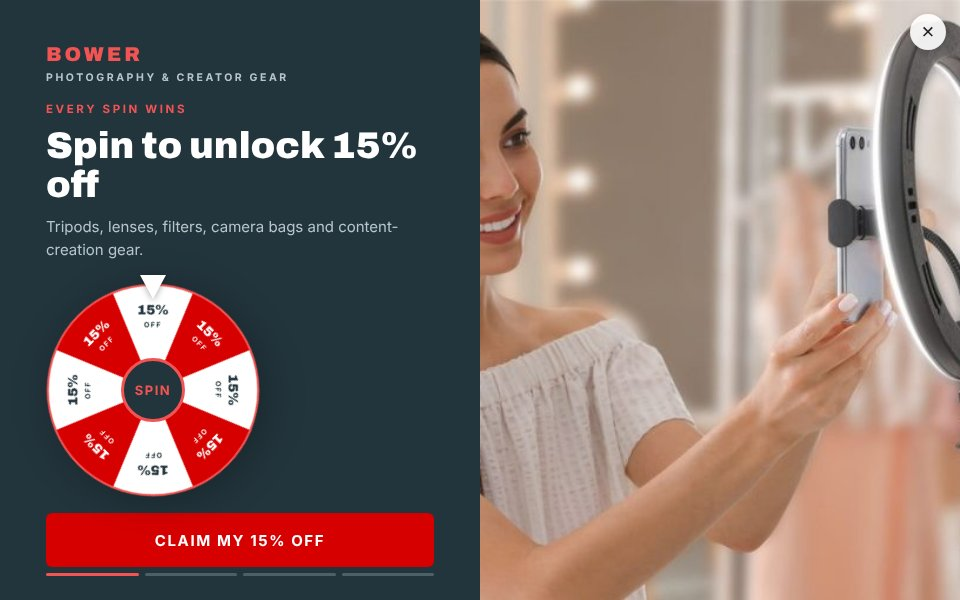
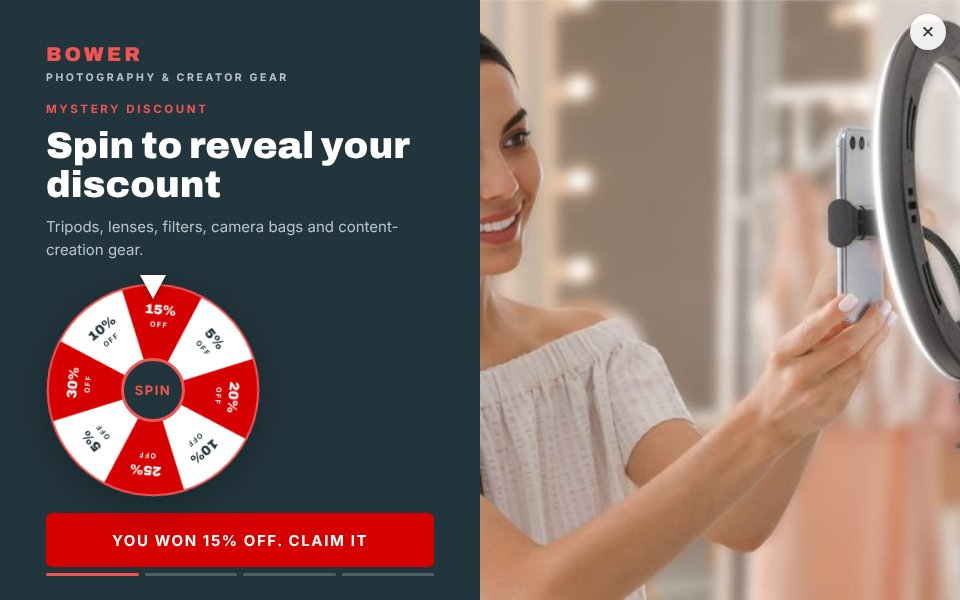
Spin to win: mixed-discount mystery wheel that lands on 15% (Today's Patio, Bower)
Claude-Session: https://claude.ai/code/session_01UBEML1uEhLsXmvUHUfTZGY

Changed region(s): [[0.0312, 0.48, 0.2812, 0.84], [0.0312, 0.15, 0.4375, 0.33], [0.125, 0.87, 0.375, 0.93]]

diff --git a/bowerusa/popup.html b/bowerusa/popup.html
@@ -130,19 +130,19 @@ body::before{content:"";position:fixed;inset:0;background:radial-gradient(ellips
     <div class="logo-sub">PHOTOGRAPHY &amp; CREATOR GEAR</div>
     <div class="steps">
       <div class="step active" data-step="1">
-<div class="eyebrow">Every spin wins</div>
-<h1 class="title">Spin to unlock 15% off</h1>
+<div class="eyebrow">Mystery discount</div>
+<h1 class="title">Spin to reveal your discount</h1>
 <p class="lede">Tripods, lenses, filters, camera bags and content-creation gear.</p>
 <div class="wheelwrap">
   <div class="pointer"></div>
   <svg id="wheel" class="wheel" viewBox="0 0 300 300" aria-hidden="true">
     <circle cx="150" cy="150" r="149" style="fill:var(--wheel-rim)"/>
-    <path d="M150 150 L94.1 15.1 A146 146 0 0 1 205.9 15.1 Z" style="fill:var(--cta-bg)"/><text transform="rotate(0.0 150 150)" x="150" y="44" text-anchor="middle" class="wtxt" style="fill:var(--cta-text)">15%</text><text transform="rotate(0.0 150 150)" x="150" y="62" text-anchor="middle" class="wtxt2" style="fill:var(--cta-text)">OFF</text><path d="M150 150 L205.9 15.1 A146 146 0 0 1 284.9 94.1 Z" style="fill:var(--wheel-alt)"/><text transform="rotate(45.0 150 150)" x="150" y="44" text-anchor="middle" class="wtxt" style="fill:var(--wheel-alt-text)">15%</text><text transform="rotate(45.0 150 150)" x="150" y="62" text-anchor="middle" class="wtxt2" style="fill:var(--wheel-alt-text)">OFF</text><path d="M150 150 L284.9 94.1 A146 146 0 0 1 284.9 205.9 Z" style="fill:var(--cta-bg)"/><text transform="rotate(90.0 150 150)" x="150" y="44" text-anchor="middle" class="wtxt" style="fill:var(--cta-text)">15%</text><text transform="rotate(90.0 150 150)" x="150" y="62" text-anchor="middle" class="wtxt2" style="fill:var(--cta-text)">OFF</text><path d="M150 150 L284.9 205.9 A146 146 0 0 1 205.9 284.9 Z" style="fill:var(--wheel-alt)"/><text transform="rotate(135.0 150 150)" x="150" y="44" text-anchor="middle" class="wtxt" style="fill:var(--wheel-alt-text)">15%</text><text transform="rotate(135.0 150 150)" x="150" y="62" text-anchor="middle" class="wtxt2" style="fill:var(--wheel-alt-text)">OFF</text><path d="M150 150 L205.9 284.9 A146 146 0 0 1 94.1 284.9 Z" style="fill:var(--cta-bg)"/><text transform="rotate(180.0 150 150)" x="150" y="44" text-anchor="middle" class="wtxt" style="fill:var(--cta-text)">15%</text><text transform="rotate(180.0 150 150)" x="150" y="62" text-anchor="middle" class="wtxt2" style="fill:var(--cta-text)">OFF</text><path d="M150 150 L94.1 284.9 A146 146 0 0 1 15.1 205.9 Z" style="fill:var(--wheel-alt)"/><text transform="rotate(225.0 150 150)" x="150" y="44" text-anchor="middle" class="wtxt" style="fill:var(--wheel-alt-text)">15%</text><text transform="rotate(225.0 150 150)" x="150" y="62" text-anchor="middle" class="wtxt2" style="fill:var(--wheel-alt-text)">OFF</text><path d="M150 150 L15.1 205.9 A146 146 0 0 1 15.1 94.1 Z" style="fill:var(--cta-bg)"/><text transform="rotate(270.0 150 150)" x="150" y="44" text-anchor="middle" class="wtxt" style="fill:var(--cta-text)">15%</text><text transform="rotate(270.0 150 150)" x="150" y="62" text-anchor="middle" class="wtxt2" style="fill:var(--cta-text)">OFF</text><path d="M150 150 L15.1 94.1 A146 146 0 0 1 94.1 15.1 Z" style="fill:var(--wheel-alt)"/><text transform="rotate(315.0 150 150)" x="150" y="44" text-anchor="middle" class="wtxt" style="fill:var(--wheel-alt-text)">15%</text><text transform="rotate(315.0 150 150)" x="150" y="62" text-anchor="middle" class="wtxt2" style="fill:var(--wheel-alt-text)">OFF</text>
+    <path d="M150 150 L94.1 15.1 A146 146 0 0 1 205.9 15.1 Z" style="fill:var(--cta-bg)"/><text transform="rotate(0.0 150 150)" x="150" y="44" text-anchor="middle" class="wtxt" style="fill:var(--cta-text)">15%</text><text transform="rotate(0.0 150 150)" x="150" y="62" text-anchor="middle" class="wtxt2" style="fill:var(--cta-text)">OFF</text><path d="M150 150 L205.9 15.1 A146 146 0 0 1 284.9 94.1 Z" style="fill:var(--wheel-alt)"/><text transform="rotate(45.0 150 150)" x="150" y="44" text-anchor="middle" class="wtxt" style="fill:var(--wheel-alt-text)">5%</text><text transform="rotate(45.0 150 150)" x="150" y="62" text-anchor="middle" class="wtxt2" style="fill:var(--wheel-alt-text)">OFF</text><path d="M150 150 L284.9 94.1 A146 146 0 0 1 284.9 205.9 Z" style="fill:var(--cta-bg)"/><text transform="rotate(90.0 150 150)" x="150" y="44" text-anchor="middle" class="wtxt" style="fill:var(--cta-text)">20%</text><text transform="rotate(90.0 150 150)" x="150" y="62" text-anchor="middle" class="wtxt2" style="fill:var(--cta-text)">OFF</text><path d="M150 150 L284.9 205.9 A146 146 0 0 1 205.9 284.9 Z" style="fill:var(--wheel-alt)"/><text transform="rotate(135.0 150 150)" x="150" y="44" text-anchor="middle" class="wtxt" style="fill:var(--wheel-alt-text)">10%</text><text transform="rotate(135.0 150 150)" x="150" y="62" text-anchor="middle" class="wtxt2" style="fill:var(--wheel-alt-text)">OFF</text><path d="M150 150 L205.9 284.9 A146 146 0 0 1 94.1 284.9 Z" style="fill:var(--cta-bg)"/><text transform="rotate(180.0 150 150)" x="150" y="44" text-anchor="middle" class="wtxt" style="fill:var(--cta-text)">25%</text><text transform="rotate(180.0 150 150)" x="150" y="62" text-anchor="middle" class="wtxt2" style="fill:var(--cta-text)">OFF</text><path d="M150 150 L94.1 284.9 A146 146 0 0 1 15.1 205.9 Z" style="fill:var(--wheel-alt)"/><text transform="rotate(225.0 150 150)" x="150" y="44" text-anchor="middle" class="wtxt" style="fill:var(--wheel-alt-text)">5%</text><text transform="rotate(225.0 150 150)" x="150" y="62" text-anchor="middle" class="wtxt2" style="fill:var(--wheel-alt-text)">OFF</text><path d="M150 150 L15.1 205.9 A146 146 0 0 1 15.1 94.1 Z" style="fill:var(--cta-bg)"/><text transform="rotate(270.0 150 150)" x="150" y="44" text-anchor="middle" class="wtxt" style="fill:var(--cta-text)">30%</text><text transform="rotate(270.0 150 150)" x="150" y="62" text-anchor="middle" class="wtxt2" style="fill:var(--cta-text)">OFF</text><path d="M150 150 L15.1 94.1 A146 146 0 0 1 94.1 15.1 Z" style="fill:var(--wheel-alt)"/><text transform="rotate(315.0 150 150)" x="150" y="44" text-anchor="middle" class="wtxt" style="fill:var(--wheel-alt-text)">10%</text><text transform="rotate(315.0 150 150)" x="150" y="62" text-anchor="middle" class="wtxt2" style="fill:var(--wheel-alt-text)">OFF</text>
     <circle cx="150" cy="150" r="30" style="fill:var(--panel);stroke:var(--wheel-rim);stroke-width:4"/>
   </svg>
   <button class="spinbtn" id="spinBtn" onclick="spin()">SPIN</button>
 </div>
-<button class="cta hidden" id="claim1" onclick="go(2)">Claim my 15% off</button></div>
+<button class="cta hidden" id="claim1" onclick="go(2)">You won 15% off. Claim it</button></div>
       <div class="step" data-step="2">
 <div class="eyebrow">Unlocked</div>
 <h2 class="title">Your 15% off is ready. Where should we send it?</h2>
@@ -217,7 +217,7 @@ function revealScratch(){if(!sc||scDone)return;scDone=true;sc.style.opacity=0;va
 if(FMT==='scratch'){var s=$('#scratchCanvas');s.addEventListener('pointerdown',function(e){drawing=true;s.setPointerCapture(e.pointerId);scratchAt(e)});s.addEventListener('pointermove',function(e){if(drawing)scratchAt(e)});s.addEventListener('pointerup',function(){drawing=false});window.addEventListener('resize',function(){if(!scDone)initScratch()})}
 /* spin */
 var rot=0,spun=false;
-function spin(){if(spun)return;spun=true;$('#spinBtn').disabled=true;rot+=360*6+45*Math.floor(Math.random()*8);$('#wheel').style.transform='rotate('+rot+'deg)';setTimeout(function(){showClaim();burst()},4300)}
+function spin(){if(spun)return;spun=true;$('#spinBtn').disabled=true;rot+=360*6-(rot%360)+(Math.random()*24-12);$('#wheel').style.transform='rotate('+rot+'deg)';setTimeout(function(){showClaim();burst()},4300)}
 /* flip */
 function flipCard(el){if(el.classList.contains('done'))return;$$('.fcard').forEach(function(c){c.classList.add('done');if(c!==el)c.classList.add('dim')});el.classList.add('flipped');setTimeout(function(){showClaim();burst()},650)}
 /* mystery */

diff --git a/today-s-patio/popup.html b/today-s-patio/popup.html
@@ -130,19 +130,19 @@ body::before{content:"";position:fixed;inset:0;background:radial-gradient(ellips
     <div class="logo-sub">OUTDOOR PATIO FURNITURE</div>
     <div class="steps">
       <div class="step active" data-step="1">
-<div class="eyebrow">Every spin wins</div>
-<h1 class="title">Spin to unlock 15% off</h1>
+<div class="eyebrow">Mystery discount</div>
+<h1 class="title">Spin to reveal your discount</h1>
 <p class="lede">Patio furniture, covers and umbrellas in a style for every taste.</p>
 <div class="wheelwrap">
   <div class="pointer"></div>
   <svg id="wheel" class="wheel" viewBox="0 0 300 300" aria-hidden="true">
     <circle cx="150" cy="150" r="149" style="fill:var(--wheel-rim)"/>
-    <path d="M150 150 L94.1 15.1 A146 146 0 0 1 205.9 15.1 Z" style="fill:var(--cta-bg)"/><text transform="rotate(0.0 150 150)" x="150" y="44" text-anchor="middle" class="wtxt" style="fill:var(--cta-text)">15%</text><text transform="rotate(0.0 150 150)" x="150" y="62" text-anchor="middle" class="wtxt2" style="fill:var(--cta-text)">OFF</text><path d="M150 150 L205.9 15.1 A146 146 0 0 1 284.9 94.1 Z" style="fill:var(--wheel-alt)"/><text transform="rotate(45.0 150 150)" x="150" y="44" text-anchor="middle" class="wtxt" style="fill:var(--wheel-alt-text)">15%</text><text transform="rotate(45.0 150 150)" x="150" y="62" text-anchor="middle" class="wtxt2" style="fill:var(--wheel-alt-text)">OFF</text><path d="M150 150 L284.9 94.1 A146 146 0 0 1 284.9 205.9 Z" style="fill:var(--cta-bg)"/><text transform="rotate(90.0 150 150)" x="150" y="44" text-anchor="middle" class="wtxt" style="fill:var(--cta-text)">15%</text><text transform="rotate(90.0 150 150)" x="150" y="62" text-anchor="middle" class="wtxt2" style="fill:var(--cta-text)">OFF</text><path d="M150 150 L284.9 205.9 A146 146 0 0 1 205.9 284.9 Z" style="fill:var(--wheel-alt)"/><text transform="rotate(135.0 150 150)" x="150" y="44" text-anchor="middle" class="wtxt" style="fill:var(--wheel-alt-text)">15%</text><text transform="rotate(135.0 150 150)" x="150" y="62" text-anchor="middle" class="wtxt2" style="fill:var(--wheel-alt-text)">OFF</text><path d="M150 150 L205.9 284.9 A146 146 0 0 1 94.1 284.9 Z" style="fill:var(--cta-bg)"/><text transform="rotate(180.0 150 150)" x="150" y="44" text-anchor="middle" class="wtxt" style="fill:var(--cta-text)">15%</text><text transform="rotate(180.0 150 150)" x="150" y="62" text-anchor="middle" class="wtxt2" style="fill:var(--cta-text)">OFF</text><path d="M150 150 L94.1 284.9 A146 146 0 0 1 15.1 205.9 Z" style="fill:var(--wheel-alt)"/><text transform="rotate(225.0 150 150)" x="150" y="44" text-anchor="middle" class="wtxt" style="fill:var(--wheel-alt-text)">15%</text><text transform="rotate(225.0 150 150)" x="150" y="62" text-anchor="middle" class="wtxt2" style="fill:var(--wheel-alt-text)">OFF</text><path d="M150 150 L15.1 205.9 A146 146 0 0 1 15.1 94.1 Z" style="fill:var(--cta-bg)"/><text transform="rotate(270.0 150 150)" x="150" y="44" text-anchor="middle" class="wtxt" style="fill:var(--cta-text)">15%</text><text transform="rotate(270.0 150 150)" x="150" y="62" text-anchor="middle" class="wtxt2" style="fill:var(--cta-text)">OFF</text><path d="M150 150 L15.1 94.1 A146 146 0 0 1 94.1 15.1 Z" style="fill:var(--wheel-alt)"/><text transform="rotate(315.0 150 150)" x="150" y="44" text-anchor="middle" class="wtxt" style="fill:var(--wheel-alt-text)">15%</text><text transform="rotate(315.0 150 150)" x="150" y="62" text-anchor="middle" class="wtxt2" style="fill:var(--wheel-alt-text)">OFF</text>
+    <path d="M150 150 L94.1 15.1 A146 146 0 0 1 205.9 15.1 Z" style="fill:var(--cta-bg)"/><text transform="rotate(0.0 150 150)" x="150" y="44" text-anchor="middle" class="wtxt" style="fill:var(--cta-text)">15%</text><text transform="rotate(0.0 150 150)" x="150" y="62" text-anchor="middle" class="wtxt2" style="fill:var(--cta-text)">OFF</text><path d="M150 150 L205.9 15.1 A146 146 0 0 1 284.9 94.1 Z" style="fill:var(--wheel-alt)"/><text transform="rotate(45.0 150 150)" x="150" y="44" text-anchor="middle" class="wtxt" style="fill:var(--wheel-alt-text)">5%</text><text transform="rotate(45.0 150 150)" x="150" y="62" text-anchor="middle" class="wtxt2" style="fill:var(--wheel-alt-text)">OFF</text><path d="M150 150 L284.9 94.1 A146 146 0 0 1 284.9 205.9 Z" style="fill:var(--cta-bg)"/><text transform="rotate(90.0 150 150)" x="150" y="44" text-anchor="middle" class="wtxt" style="fill:var(--cta-text)">20%</text><text transform="rotate(90.0 150 150)" x="150" y="62" text-anchor="middle" class="wtxt2" style="fill:var(--cta-text)">OFF</text><path d="M150 150 L284.9 205.9 A146 146 0 0 1 205.9 284.9 Z" style="fill:var(--wheel-alt)"/><text transform="rotate(135.0 150 150)" x="150" y="44" text-anchor="middle" class="wtxt" style="fill:var(--wheel-alt-text)">10%</text><text transform="rotate(135.0 150 150)" x="150" y="62" text-anchor="middle" class="wtxt2" style="fill:var(--wheel-alt-text)">OFF</text><path d="M150 150 L205.9 284.9 A146 146 0 0 1 94.1 284.9 Z" style="fill:var(--cta-bg)"/><text transform="rotate(180.0 150 150)" x="150" y="44" text-anchor="middle" class="wtxt" style="fill:var(--cta-text)">25%</text><text transform="rotate(180.0 150 150)" x="150" y="62" text-anchor="middle" class="wtxt2" style="fill:var(--cta-text)">OFF</text><path d="M150 150 L94.1 284.9 A146 146 0 0 1 15.1 205.9 Z" style="fill:var(--wheel-alt)"/><text transform="rotate(225.0 150 150)" x="150" y="44" text-anchor="middle" class="wtxt" style="fill:var(--wheel-alt-text)">5%</text><text transform="rotate(225.0 150 150)" x="150" y="62" text-anchor="middle" class="wtxt2" style="fill:var(--wheel-alt-text)">OFF</text><path d="M150 150 L15.1 205.9 A146 146 0 0 1 15.1 94.1 Z" style="fill:var(--cta-bg)"/><text transform="rotate(270.0 150 150)" x="150" y="44" text-anchor="middle" class="wtxt" style="fill:var(--cta-text)">30%</text><text transform="rotate(270.0 150 150)" x="150" y="62" text-anchor="middle" class="wtxt2" style="fill:var(--cta-text)">OFF</text><path d="M150 150 L15.1 94.1 A146 146 0 0 1 94.1 15.1 Z" style="fill:var(--wheel-alt)"/><text transform="rotate(315.0 150 150)" x="150" y="44" text-anchor="middle" class="wtxt" style="fill:var(--wheel-alt-text)">10%</text><text transform="rotate(315.0 150 150)" x="150" y="62" text-anchor="middle" class="wtxt2" style="fill:var(--wheel-alt-text)">OFF</text>
     <circle cx="150" cy="150" r="30" style="fill:var(--panel);stroke:var(--wheel-rim);stroke-width:4"/>
   </svg>
   <button class="spinbtn" id="spinBtn" onclick="spin()">SPIN</button>
 </div>
-<button class="cta hidden" id="claim1" onclick="go(2)">Claim my 15% off</button></div>
+<button class="cta hidden" id="claim1" onclick="go(2)">You won 15% off. Claim it</button></div>
       <div class="step" data-step="2">
 <div class="eyebrow">Unlocked</div>
 <h2 class="title">Your 15% off is ready. Where should we send it?</h2>
@@ -217,7 +217,7 @@ function revealScratch(){if(!sc||scDone)return;scDone=true;sc.style.opacity=0;va
 if(FMT==='scratch'){var s=$('#scratchCanvas');s.addEventListener('pointerdown',function(e){drawing=true;s.setPointerCapture(e.pointerId);scratchAt(e)});s.addEventListener('pointermove',function(e){if(drawing)scratchAt(e)});s.addEventListener('pointerup',function(){drawing=false});window.addEventListener('resize',function(){if(!scDone)initScratch()})}
 /* spin */
 var rot=0,spun=false;
-function spin(){if(spun)return;spun=true;$('#spinBtn').disabled=true;rot+=360*6+45*Math.floor(Math.random()*8);$('#wheel').style.transform='rotate('+rot+'deg)';setTimeout(function(){showClaim();burst()},4300)}
+function spin(){if(spun)return;spun=true;$('#spinBtn').disabled=true;rot+=360*6-(rot%360)+(Math.random()*24-12);$('#wheel').style.transform='rotate('+rot+'deg)';setTimeout(function(){showClaim();burst()},4300)}
 /* flip */
 function flipCard(el){if(el.classList.contains('done'))return;$$('.fcard').forEach(function(c){c.classList.add('done');if(c!==el)c.classList.add('dim')});el.classList.add('flipped');setTimeout(function(){showClaim();burst()},650)}
 /* mystery */

diff --git a/today-s-patio/popup/index.html b/today-s-patio/popup/index.html
@@ -20,11 +20,11 @@
 </div><div class="quickcta"><p>Like it? I can walk you through putting it live on a quick call.</p><a class="btn" href="https://calendly.com/karson-kokomation/30min">Book a call</a></div>
 <h2>The new popup</h2>
 <div class="shot"><img alt="The redesigned Today&#x27;s Patio popup form" decoding="async" src="/today-s-patio/img/popup-spin.jpg"/></div>
-<p class="caption">Step 1 of 4: spin the wheel, every spin wins 15% off. Then email, an optional text step, and the discount applies on its own.</p>
+<p class="caption">Step 1 of 4: spin the wheel to reveal a mystery discount, landing on 15% off. Then email, an optional text step, and the discount applies on its own.</p>
 <div class="openrow"><a class="openbtn" href="/today-s-patio/popup.html">Open the full popup</a></div>
 <h2>What it improves</h2>
 <ul>
-<li><b>A spin-to-win wheel up front.</b> Every spin lands on 15% off, so the offer is the first thing visitors play with. The email field only appears after they've earned the discount.</li>
+<li><b>A mystery-discount wheel up front.</b> Visitors spin to find out their discount and land on 15% off, so the offer is the first thing they play with. The email field only appears after they've earned the discount.</li>
 <li><b>Split panel, photo on its own side.</b> Copy sits on a solid panel in Today&#x27;s Patio's own colors and fonts, and the photo fills its own column. No text sits on top of the photo.</li>
 <li><b>Four steps, and only email is required.</b> Spin, email, an optional text step that can be skipped, then the discount applies on its own. No code to copy.</li>
 </ul>

diff --git a/bowerusa/popup/index.html b/bowerusa/popup/index.html
@@ -20,11 +20,11 @@
 </div><div class="quickcta"><p>Like it? I can walk you through putting it live on a quick call.</p><a class="btn" href="https://calendly.com/karson-kokomation/30min">Book a call</a></div>
 <h2>The new popup</h2>
 <div class="shot"><img alt="The redesigned Bower popup form" decoding="async" src="/bowerusa/img/popup-spin.jpg"/></div>
-<p class="caption">Step 1 of 4: spin the wheel, every spin wins 15% off. Then email, an optional text step, and the discount applies on its own.</p>
+<p class="caption">Step 1 of 4: spin the wheel to reveal a mystery discount, landing on 15% off. Then email, an optional text step, and the discount applies on its own.</p>
 <div class="openrow"><a class="openbtn" href="/bowerusa/popup.html">Open the full popup</a></div>
 <h2>What it improves</h2>
 <ul>
-<li><b>A spin-to-win wheel up front.</b> Every spin lands on 15% off, so the offer is the first thing visitors play with. The email field only appears after they've earned the discount.</li>
+<li><b>A mystery-discount wheel up front.</b> Visitors spin to find out their discount and land on 15% off, so the offer is the first thing they play with. The email field only appears after they've earned the discount.</li>
 <li><b>Split panel, photo on its own side.</b> Copy sits on a solid panel in Bower's own colors and fonts, and the photo fills its own column. No text sits on top of the photo.</li>
 <li><b>Four steps, and only email is required.</b> Spin, email, an optional text step that can be skipped, then the discount applies on its own. No code to copy.</li>
 </ul>
